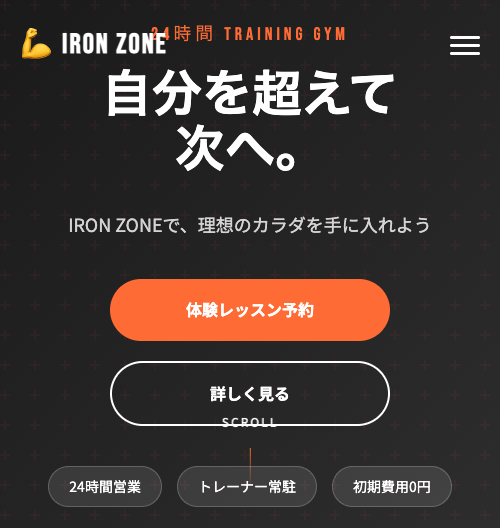
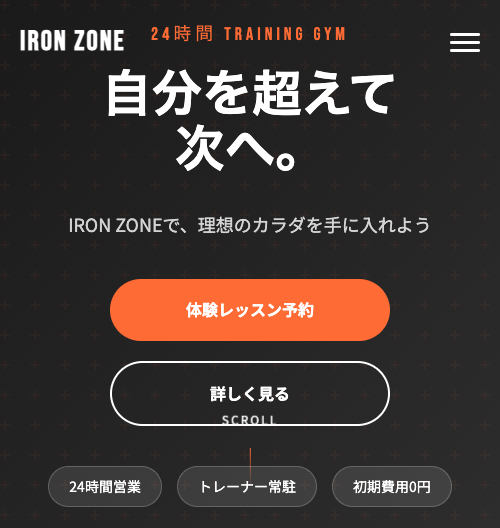
Improve Day068 fitness gym LP based on review
Design improvements:
- Replace emoji icons with SVG for professional appearance
- Feature icons: clock, dumbbell, trainer (SVG)
- Facility icons: machine, studio, shower, locker (SVG)
- Contact icons: phone, clock, location (SVG)

Content fixes:
- Fix typo: 提駐車場 → 提携駐車場
- Update placeholder phone: 0120-123-456
- Update placeholder address: 東京都渋谷区神宮前1-2-3

Accessibility improvements:
- Add aria-label to logo link
- Remove italic style from voice quotes

Changed region(s): [[0.03, 0.0303, 0.33, 0.1212], [0.9, 0.0606, 0.96, 0.1212], [0.42, 0.7879, 0.54, 0.8182]]

diff --git a/day068/current/gym-lp/index.html b/day068/current/gym-lp/index.html
@@ -14,8 +14,7 @@
   <!-- Header -->
   <header class="header" id="header">
     <div class="header-inner">
-      <a href="#" class="logo">
-        <span class="logo-icon">💪</span>
+      <a href="#" class="logo" aria-label="IRON ZONE トップへ">
         <span class="logo-text">IRON ZONE</span>
       </a>
       <nav class="nav" id="nav">
@@ -87,22 +86,37 @@
       </div>
       <div class="features-grid">
         <div class="feature-card fade-in">
-          <div class="feature-icon">
-            <span>🕐</span>
+          <div class="feature-icon feature-icon-clock">
+            <svg width="32" height="32" viewBox="0 0 24 24" fill="none" stroke="currentColor" stroke-width="2" stroke-linecap="round" stroke-linejoin="round">
+              <circle cx="12" cy="12" r="10"></circle>
+              <polyline points="12 6 12 12 16 14"></polyline>
+            </svg>
           </div>
           <h3 class="feature-title">24時間365日使える</h3>
           <p class="feature-text">早朝・深夜問わず、あなたのライフスタイルに合わせてトレーニング可能。仕事終わりや早朝の空いた時間も有効活用できます。</p>
         </div>
         <div class="feature-card fade-in">
-          <div class="feature-icon">
-            <span>🏋</span>
+          <div class="feature-icon feature-icon-dumbbell">
+            <svg width="32" height="32" viewBox="0 0 24 24" fill="none" stroke="currentColor" stroke-width="2" stroke-linecap="round" stroke-linejoin="round">
+              <path d="M6.5 6.5h11"></path>
+              <path d="M6 20v-4h12v4"></path>
+              <path d="M6 16v-4"></path>
+              <path d="M18 16v-4"></path>
+              <circle cx="6" cy="6" r="3"></circle>
+              <circle cx="18" cy="6" r="3"></circle>
+            </svg>
           </div>
           <h3 class="feature-title">最新マシン完備</h3>
           <p class="feature-text">アメリカ製の最新トレーニングマシンを70台以上導入。初心者からアスリートまで、目的に合わせたトレーニングが可能です。</p>
         </div>
         <div class="feature-card fade-in">
-          <div class="feature-icon">
-            <span>👨🏫</span>
+          <div class="feature-icon feature-icon-trainer">
+            <svg width="32" height="32" viewBox="0 0 24 24" fill="none" stroke="currentColor" stroke-width="2" stroke-linecap="round" stroke-linejoin="round">
+              <path d="M17 21v-2a4 4 0 0 0-4-4H5a4 4 0 0 0-4 4v2"></path>
+              <circle cx="9" cy="7" r="4"></circle>
+              <path d="M23 21v-2a4 4 0 0 0-3-3.87"></path>
+              <path d="M16 3.13a4 4 0 0 1 0 7.75"></path>
+            </svg>
           </div>
           <h3 class="feature-title">トレーナー常駐</h3>
           <p class="feature-text">経験豊富なトレーナーが常駐。フォームの確認からトレーニングメニューの作成まで、プロの視点でサポートします。</p>
@@ -181,8 +195,14 @@
       </div>
       <div class="facilities-grid">
         <div class="facility-item fade-in">
-          <div class="facility-image">
-            <div class="facility-placeholder">🏋♂</div>
+          <div class="facility-image facility-image-machine">
+            <svg width="64" height="64" viewBox="0 0 24 24" fill="none" stroke="currentColor" stroke-width="1.5" stroke-linecap="round" stroke-linejoin="round">
+              <path d="M6 3h12v18H6z"></path>
+              <path d="M10 7h4"></path>
+              <path d="M10 11h4"></path>
+              <path d="M10 15h4"></path>
+              <circle cx="12" cy="19" r="1"></circle>
+            </svg>
           </div>
           <div class="facility-content">
             <h3 class="facility-title">マシンエリア</h3>
@@ -190,8 +210,11 @@
           </div>
         </div>
         <div class="facility-item fade-in">
-          <div class="facility-image">
-            <div class="facility-placeholder">🧘</div>
+          <div class="facility-image facility-image-studio">
+            <svg width="64" height="64" viewBox="0 0 24 24" fill="none" stroke="currentColor" stroke-width="1.5" stroke-linecap="round" stroke-linejoin="round">
+              <circle cx="12" cy="12" r="10"></circle>
+              <path d="M12 6v6l4 2"></path>
+            </svg>
           </div>
           <div class="facility-content">
             <h3 class="facility-title">スタジオエリア</h3>
@@ -199,8 +222,15 @@
           </div>
         </div>
         <div class="facility-item fade-in">
-          <div class="facility-image">
-            <div class="facility-placeholder">🚿</div>
+          <div class="facility-image facility-image-shower">
+            <svg width="64" height="64" viewBox="0 0 24 24" fill="none" stroke="currentColor" stroke-width="1.5" stroke-linecap="round" stroke-linejoin="round">
+              <path d="M12 2v20"></path>
+              <path d="M8 6h8"></path>
+              <path d="M9 10h6"></path>
+              <path d="M10 14h4"></path>
+              <path d="M12 18v4"></path>
+              <path d="M8 22h8"></path>
+            </svg>
           </div>
           <div class="facility-content">
             <h3 class="facility-title">シャワールーム</h3>
@@ -208,8 +238,11 @@
           </div>
         </div>
         <div class="facility-item fade-in">
-          <div class="facility-image">
-            <div class="facility-placeholder">🔒</div>
+          <div class="facility-image facility-image-locker">
+            <svg width="64" height="64" viewBox="0 0 24 24" fill="none" stroke="currentColor" stroke-width="1.5" stroke-linecap="round" stroke-linejoin="round">
+              <rect x="3" y="11" width="18" height="11" rx="2" ry="2"></rect>
+              <path d="M7 11V7a5 5 0 0 1 10 0v4"></path>
+            </svg>
           </div>
           <div class="facility-content">
             <h3 class="facility-title">更衣室・ロッカー</h3>
@@ -294,7 +327,7 @@
             <span class="faq-icon">+</span>
           </button>
           <div class="faq-answer">
-            <p>提駐車場50台分を完備しております。最初の2時間は無料。以降は100円/30分となります。</p>
+            <p>提携駐車場50台分を完備しております。最初の2時間は無料。以降は100円/30分となります。</p>
           </div>
         </div>
         <div class="faq-item fade-in">
@@ -329,24 +362,32 @@
           <p class="contact-text">まずはお気軽に体験レッスンから。理想のカラダへの第一歩を踏み出しませんか？</p>
           <div class="contact-info">
             <div class="contact-item">
-              <span class="contact-icon">📞</span>
+              <svg class="contact-icon" width="24" height="24" viewBox="0 0 24 24" fill="none" stroke="currentColor" stroke-width="2" stroke-linecap="round" stroke-linejoin="round">
+                <path d="M22 16.92v3a2 2 0 0 1-2.18 2 19.79 19.79 0 0 1-8.63-3.07 19.5 19.5 0 0 1-6-6 19.79 19.79 0 0 1-3.07-8.67A2 2 0 0 1 4.11 2h3a2 2 0 0 1 2 1.72 12.84 12.84 0 0 0 .7 2.81 2 2 0 0 1-.45 2.11L8.09 9.91a16 16 0 0 0 6 6l1.27-1.27a2 2 0 0 1 2.11-.45 12.84 12.84 0 0 0 2.81.7A2 2 0 0 1 22 16.92z"></path>
+              </svg>
               <div>
                 <p class="contact-label">お電話</p>
-                <p class="contact-value">0120-XXX-XXX</p>
+                <p class="contact-value">0120-123-456</p>
               </div>
             </div>
             <div class="contact-item">
-              <span class="contact-icon">🕐</span>
+              <svg class="contact-icon" width="24" height="24" viewBox="0 0 24 24" fill="none" stroke="currentColor" stroke-width="2" stroke-linecap="round" stroke-linejoin="round">
+                <circle cx="12" cy="12" r="10"></circle>
+                <polyline points="12 6 12 12 16 14"></polyline>
+              </svg>
               <div>
                 <p class="contact-label">受付時間</p>
                 <p class="contact-value">9:00〜21:00（年中無休）</p>
               </div>
             </div>
             <div class="contact-item">
-              <span class="contact-icon">📍</span>
+              <svg class="contact-icon" width="24" height="24" viewBox="0 0 24 24" fill="none" stroke="currentColor" stroke-width="2" stroke-linecap="round" stroke-linejoin="round">
+                <path d="M21 10c0 7-9 13-9 13s-9-6-9-13a9 9 0 0 1 18 0z"></path>
+                <circle cx="12" cy="10" r="3"></circle>
+              </svg>
               <div>
                 <p class="contact-label">所在地</p>
-                <p class="contact-value">〒XXX-XXXX 東京都〇〇区〇〇1-2-3</p>
+                <p class="contact-value">〒150-0001 東京都渋谷区神宮前1-2-3</p>
               </div>
             </div>
           </div>

diff --git a/day068/current/gym-lp/styles.css b/day068/current/gym-lp/styles.css
@@ -98,8 +98,10 @@ button {
   letter-spacing: 2px;
 }
 
-.logo-icon {
-  font-size: 32px;
+.feature-icon svg {
+  width: 32px;
+  height: 32px;
+  color: var(--primary);
 }
 
 /* === Nav === */
@@ -595,8 +597,10 @@ button {
   justify-content: center;
 }
 
-.facility-placeholder {
-  font-size: 64px;
+.facility-image svg {
+  width: 64px;
+  height: 64px;
+  color: rgba(255, 255, 255, 0.8);
 }
 
 .facility-content {
@@ -633,7 +637,6 @@ button {
   font-size: 16px;
   line-height: 1.8;
   margin-bottom: 20px;
-  font-style: italic;
 }
 
 .voice-meta {
@@ -750,7 +753,10 @@ button {
 }
 
 .contact-icon {
-  font-size: 24px;
+  width: 24px;
+  height: 24px;
+  flex-shrink: 0;
+  color: var(--primary);
 }
 
 .contact-label {
